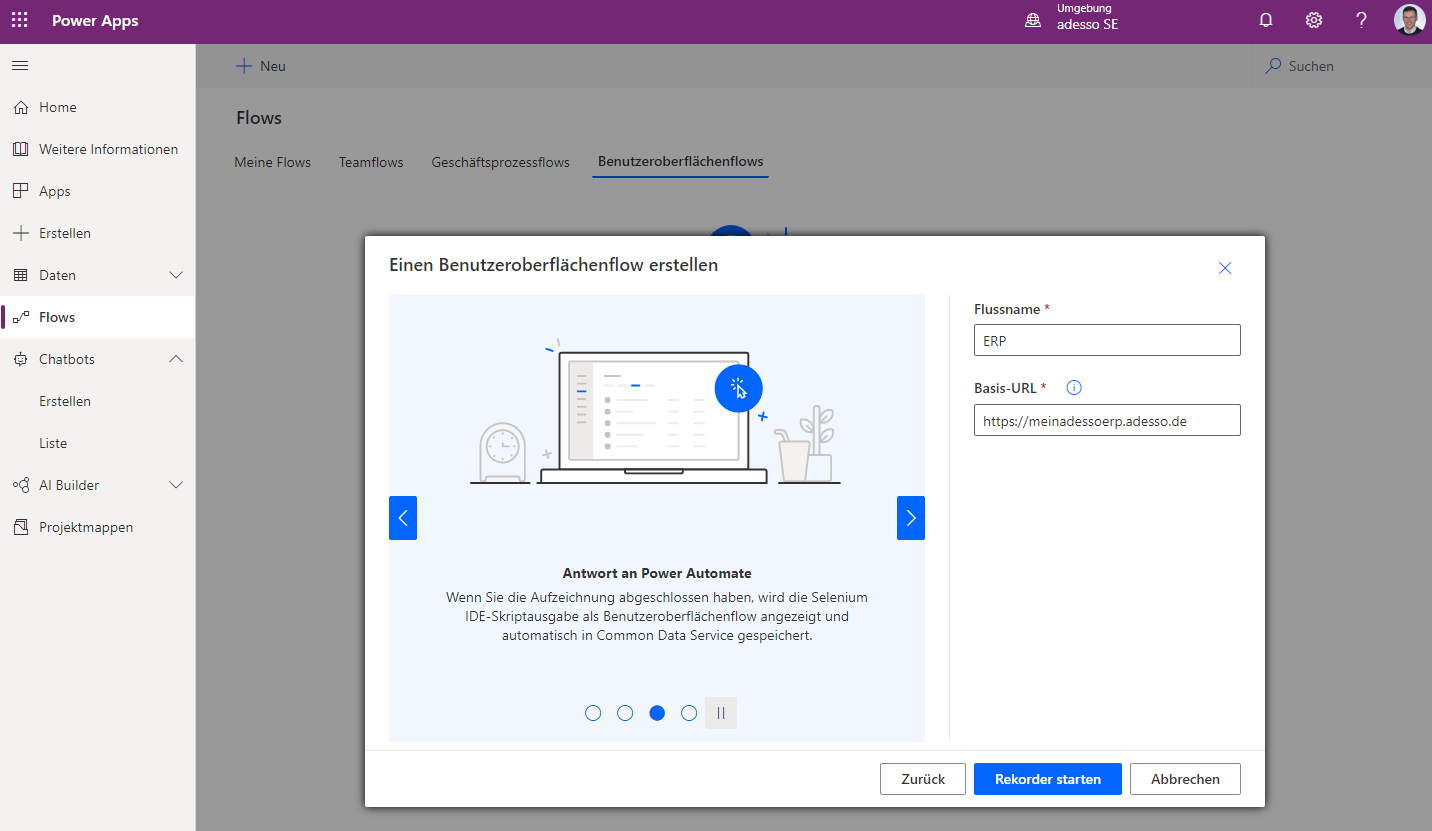
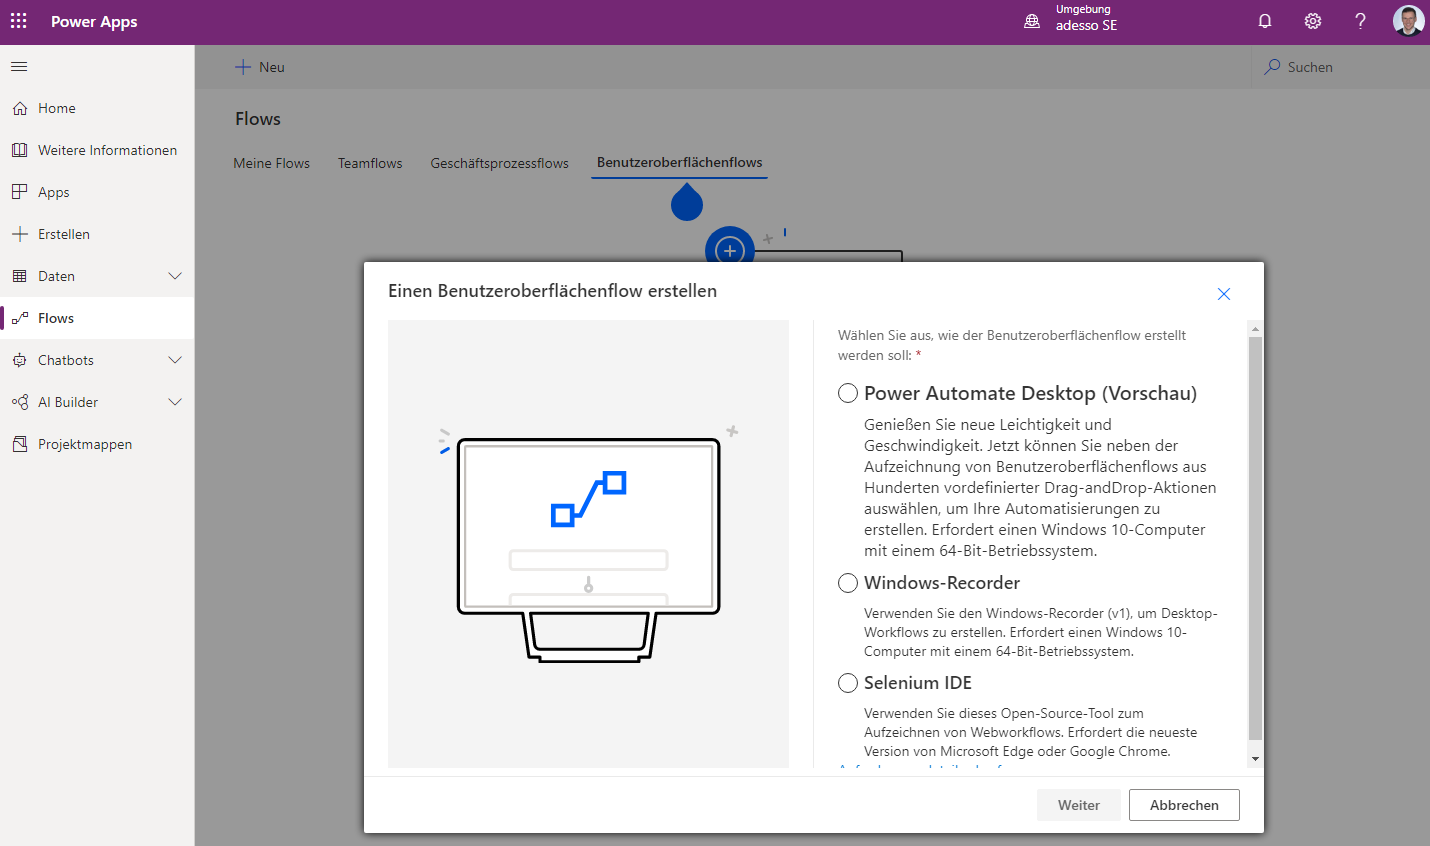
Test Bilderfunktion
TestDeployment für Preview

diff --git a/_posts/2020-10-06-Zeitersparnis-durch-RPA-und-Microsoft-PowerPlatform-Teil1.md b/_posts/2020-10-06-Zeitersparnis-durch-RPA-und-Microsoft-PowerPlatform-Teil1.md
@@ -25,9 +25,11 @@ Ich werde diesem Thema zwei Blogeinträge widmen, um im ersten Teil das Grundger
 
 Als Prozessgrundlage hat mich u.a. dieses Microsoft Tutorial inspiriert [Robotic Process Automation with Microsoft Power Automate, UI flows and AI Builder] (https://www.youtube.com/watch?v=NxJ2Zch7M2o), bei dem ich selbst die Umsetzung testen will. 
 
-Hierbei haben sich die Features etwas geändert und ich möchte eine WebApplikationen per RPA befüllen.
+Hierbei haben sich die Features etwas geändert.
 
-Als Beispiel-Prozess nehme ich das Freigeben von Rechnungen und die dazugehörige Pflege in ein ERP-System. 
+
+Als Beispiel-Prozess nehme ich das Freigeben von Rechnungen und die dazugehörige Pflege in eine lokale Excel-Datei, die ein ERP-System simulieren soll.
+
 
 Dabei werde ich auch den AI-Builder der Microsoft PowerPlatform nutzen, um KI-gesteuert Informationen aus Dokumenten zu extrahieren.
 
@@ -138,13 +140,14 @@ Nach dem Training stehen mir die extrahierten Felder in meinem PowerAutomate zur
 
 
 ## Automatisierte Eingabe von Daten durch RPA
-Um Eingaben in ein webbasierten ERP System zu ermöglichen, muss ich vorab die Eingabe "recorden", damit der Benutzeroberflächen Flow diese Schritte automatisieren kann. Hierbei werden ein paar kostenlose Tools von Microsoft und Selenium benötigt.
+Um Eingaben ermöglichen zu automatisieren, muss ich vorab die Eingabe "recorden", damit der Benutzeroberflächen Flow diese Schritte automatisieren kann. Hierbei werden ein paar kostenlose Tools von Microsoft und Selenium benötigt.
 /assets/images/posts/Zeitersparnis-durch-RPA-und-Microsoft-PowerPlatform/RPAEinrichtung.png
 
 
-In den nächsten Schritte sage ich dem Benutzeroberflächen Flow in welcher Form ich die Eingaben "recorden" möchte und gegen welche Webapplikation das geschehen soll
-/assets/images/posts/Zeitersparnis-durch-RPA-und-Microsoft-PowerPlatform/RPASelenium.png
+In den nächsten Schritte sage ich dem Benutzeroberflächen Flow in welcher Form ich die Eingaben "recorden" möchte:
 /assets/images/posts/Zeitersparnis-durch-RPA-und-Microsoft-PowerPlatform/RPARecorder.png
+
+Ich nutze die Vorschauversion vom PowerAutomate Desktop. Als Alternative könnte ich die Selenium-IDE nutzen, die ein Open-Source-Tool ist, mit dem ich Interaktionen auf Websites aufzeichnen und wiedergeben kann. Dieses Tool wird auch oft bei Tests genutzt.
 
 
 Cliffhanger...;)
